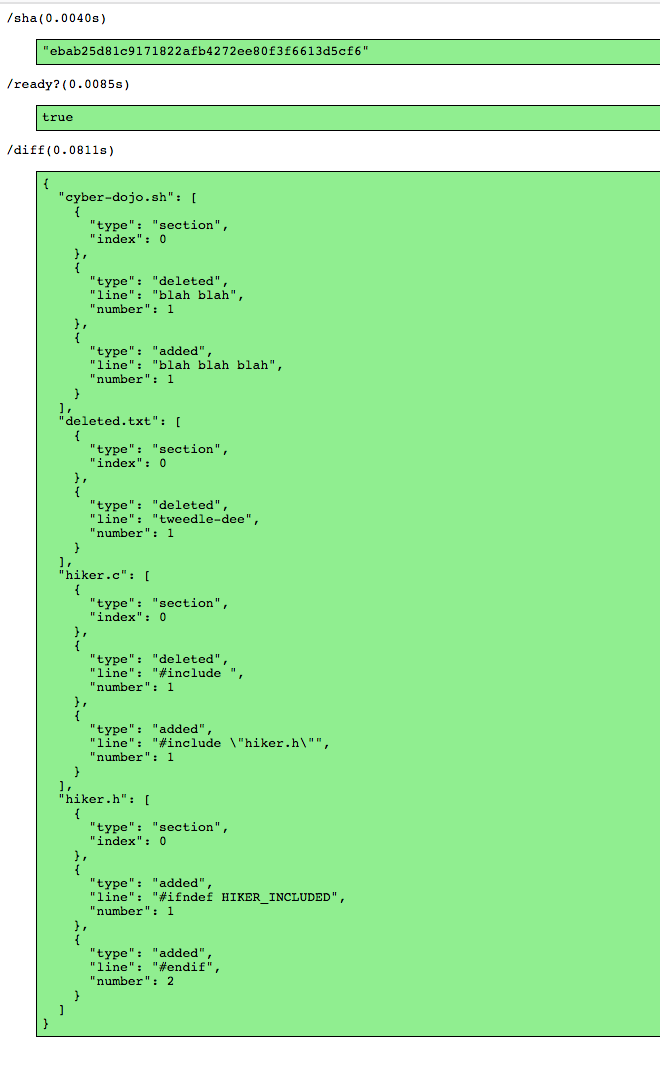
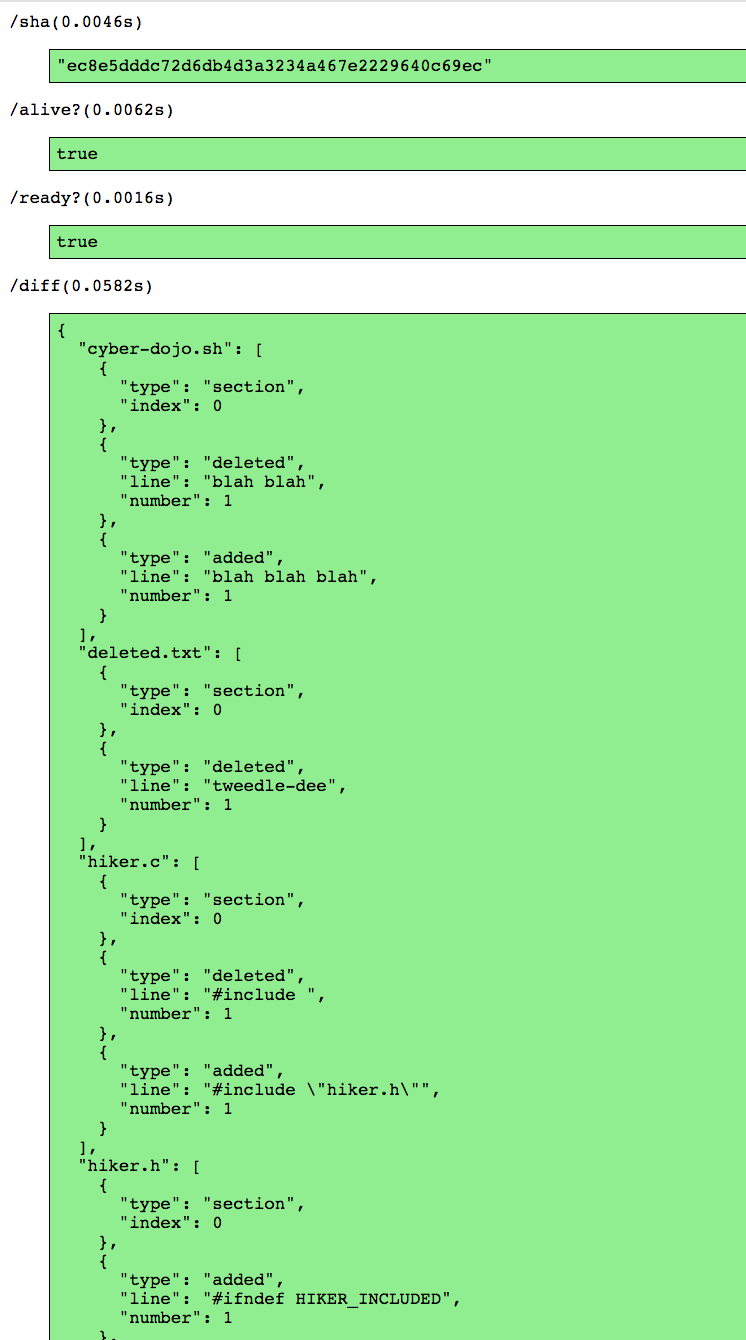
add alive? method to API and use for k8s liveness probe

diff --git a/test_server/http_json_args_test.rb b/test_server/http_json_args_test.rb
@@ -28,7 +28,7 @@ class HttpJsonArgsTest < DifferTestBase
 
   test 'c89', %w(
   ctor does not raise when body is empty string which is
-  useful for kubernetes live/ready probes ) do
+  useful for kubernetes liveness/readyness probes ) do
     HttpJsonArgs.new('')
   end
 
@@ -36,6 +36,26 @@ class HttpJsonArgsTest < DifferTestBase
   %w( ctor does not raise when string-arg is valid json ) do
     HttpJsonArgs.new('{}')
     HttpJsonArgs.new('{"answer":42}')
+  end
+
+  # - - - - - - - - - - - - - - - - -
+
+  test 'e12', 'sha has no args' do
+    name,args = HttpJsonArgs.new('{}').get('/sha')
+    assert_equal name, 'sha'
+    assert_equal [], args
+  end
+
+  test 'e13', 'alive has no args' do
+    name,args = HttpJsonArgs.new('{}').get('/alive')
+    assert_equal name, 'alive?'
+    assert_equal [], args
+  end
+
+  test 'e14', 'ready has no args' do
+    name,args = HttpJsonArgs.new('{}').get('/ready')
+    assert_equal name, 'ready?'
+    assert_equal [], args
   end
 
   # - - - - - - - - - - - - - - - - -

diff --git a/test_server/rack_dispatcher_test.rb b/test_server/rack_dispatcher_test.rb
@@ -21,21 +21,28 @@ class RackDispatcherTest < DifferTestBase
     assert_equal({"ready?" => true}, JSON.parse(response[2][0]))
   end
 
-  test '131', 'ready 200' do
-    args = {}
-    assert_200('ready', args) do |response|
-      assert_equal true, response['ready?']
-    end
-  end
-
-  test '132', 'sha 200' do
+  test '131', 'sha 200' do
     args = {}
     assert_200('sha', args) do |response|
       assert_equal ENV['SHA'], response['sha']
     end
   end
 
-  test '133', 'diff 200' do
+  test '132', 'alive 200' do
+    args = {}
+    assert_200('alive', args) do |response|
+      assert_equal true, response['alive?']
+    end
+  end
+
+  test '133', 'ready 200' do
+    args = {}
+    assert_200('ready', args) do |response|
+      assert_equal true, response['ready?']
+    end
+  end
+
+  test '134', 'diff 200' do
     args = { id:hex_test_id, old_files:{}, new_files:{} }
     assert_200('diff', args) do |response|
       assert_equal({}, response['diff'])

diff --git a/test_client/test/differ_client_test.rb b/test_client/test/differ_client_test.rb
@@ -27,23 +27,31 @@ class DifferClientTest < ClientTestBase
   end
 
   # - - - - - - - - - - - - - - - - - - - -
-  # ready
-  # - - - - - - - - - - - - - - - - - - - -
-
-  test '945', 'ready? 200' do
-    assert differ.ready?
-  end
-
-  # - - - - - - - - - - - - - - - - - - - -
   # sha
   # - - - - - - - - - - - - - - - - - - - -
 
-  test '946', 'sha 200' do
+  test '945', 'sha 200' do
     sha = differ.sha
     assert_equal 40, sha.size, 'sha.size'
     sha.each_char do |ch|
       assert '0123456789abcdef'.include?(ch), ch
     end
+  end
+
+  # - - - - - - - - - - - - - - - - - - - -
+  # alive?
+  # - - - - - - - - - - - - - - - - - - - -
+
+  test '946', 'alive? 200' do
+    assert differ.alive?
+  end
+
+  # - - - - - - - - - - - - - - - - - - - -
+  # ready?
+  # - - - - - - - - - - - - - - - - - - - -
+
+  test '947', 'ready? 200' do
+    assert differ.ready?
   end
 
   # - - - - - - - - - - - - - - - - - - - -

diff --git a/test_client/src/demo.rb b/test_client/src/demo.rb
@@ -8,6 +8,7 @@ class Demo
   def call(_env)
     html = ''
     html += sha
+    html += alive?
     html += ready?
     html += diff
     [ 200, { 'Content-Type' => 'text/html' }, [ html ] ]
@@ -23,6 +24,11 @@ class Demo
   def sha
     duration,result = timed { differ.sha }
     pre('sha', duration, 'LightGreen', result)
+  end
+
+  def alive?
+    duration,result = timed { differ.alive? }
+    pre('alive?', duration, 'LightGreen', result)
   end
 
   def ready?

diff --git a/src/http_json_args.rb b/src/http_json_args.rb
@@ -23,8 +23,9 @@ class HttpJsonArgs
 
   def get(path)
     case path
-    when '/ready' then ['ready?',[]]
     when '/sha'   then ['sha',[]]
+    when '/alive' then ['alive?',[]]
+    when '/ready' then ['ready?',[]]
     when '/diff'  then ['diff',[id, old_files, new_files]]
     else
       raise HttpJson::RequestError, 'unknown path'

diff --git a/test_client/src/differ_service.rb b/test_client/src/differ_service.rb
@@ -9,11 +9,15 @@ class DifferService
     @http = HttpJson::ResponseUnpacker.new(requester, DifferException)
   end
 
-  def ready?
+  def sha
     @http.get(__method__, {})
   end
 
-  def sha
+  def alive?
+    @http.get(__method__, {})
+  end
+
+  def ready?
     @http.get(__method__, {})
   end
 

diff --git a/test_server/alive_test.rb b/test_server/alive_test.rb
@@ -1,0 +1,16 @@
+require_relative 'differ_test_base'
+
+class AliveTest < DifferTestBase
+
+  def self.hex_prefix
+    '198'
+  end
+
+  # - - - - - - - - - - - - - - - - -
+
+  test '93b',
+  %w( its alive ) do
+    assert differ.alive?
+  end
+
+end

diff --git a/src/differ.rb b/src/differ.rb
@@ -9,12 +9,16 @@ class Differ
     @externals = externals
   end
 
-  def ready?
-    true
-  end
-
   def sha
     ENV['SHA']
+  end
+
+  def alive?
+    true
+  end
+  
+  def ready?
+    true
   end
 
   def diff(id, old_files, new_files)
